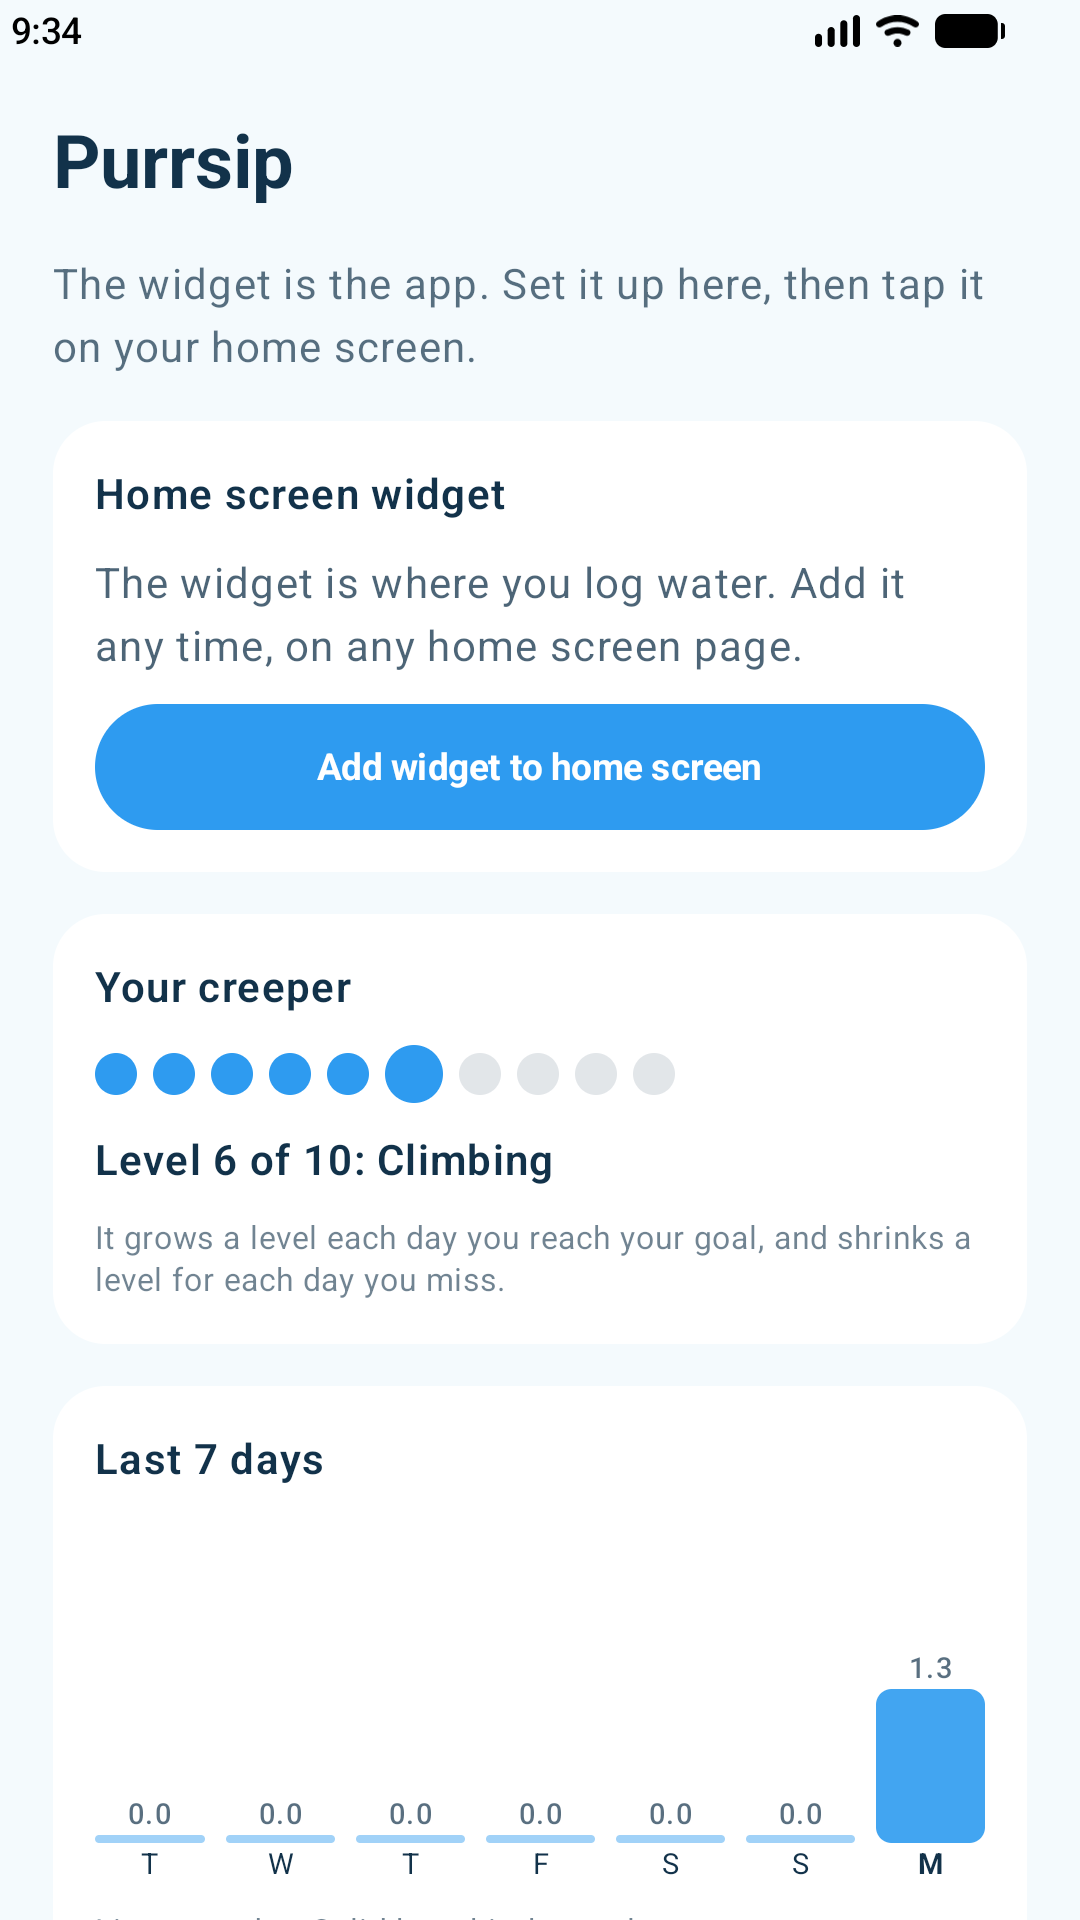
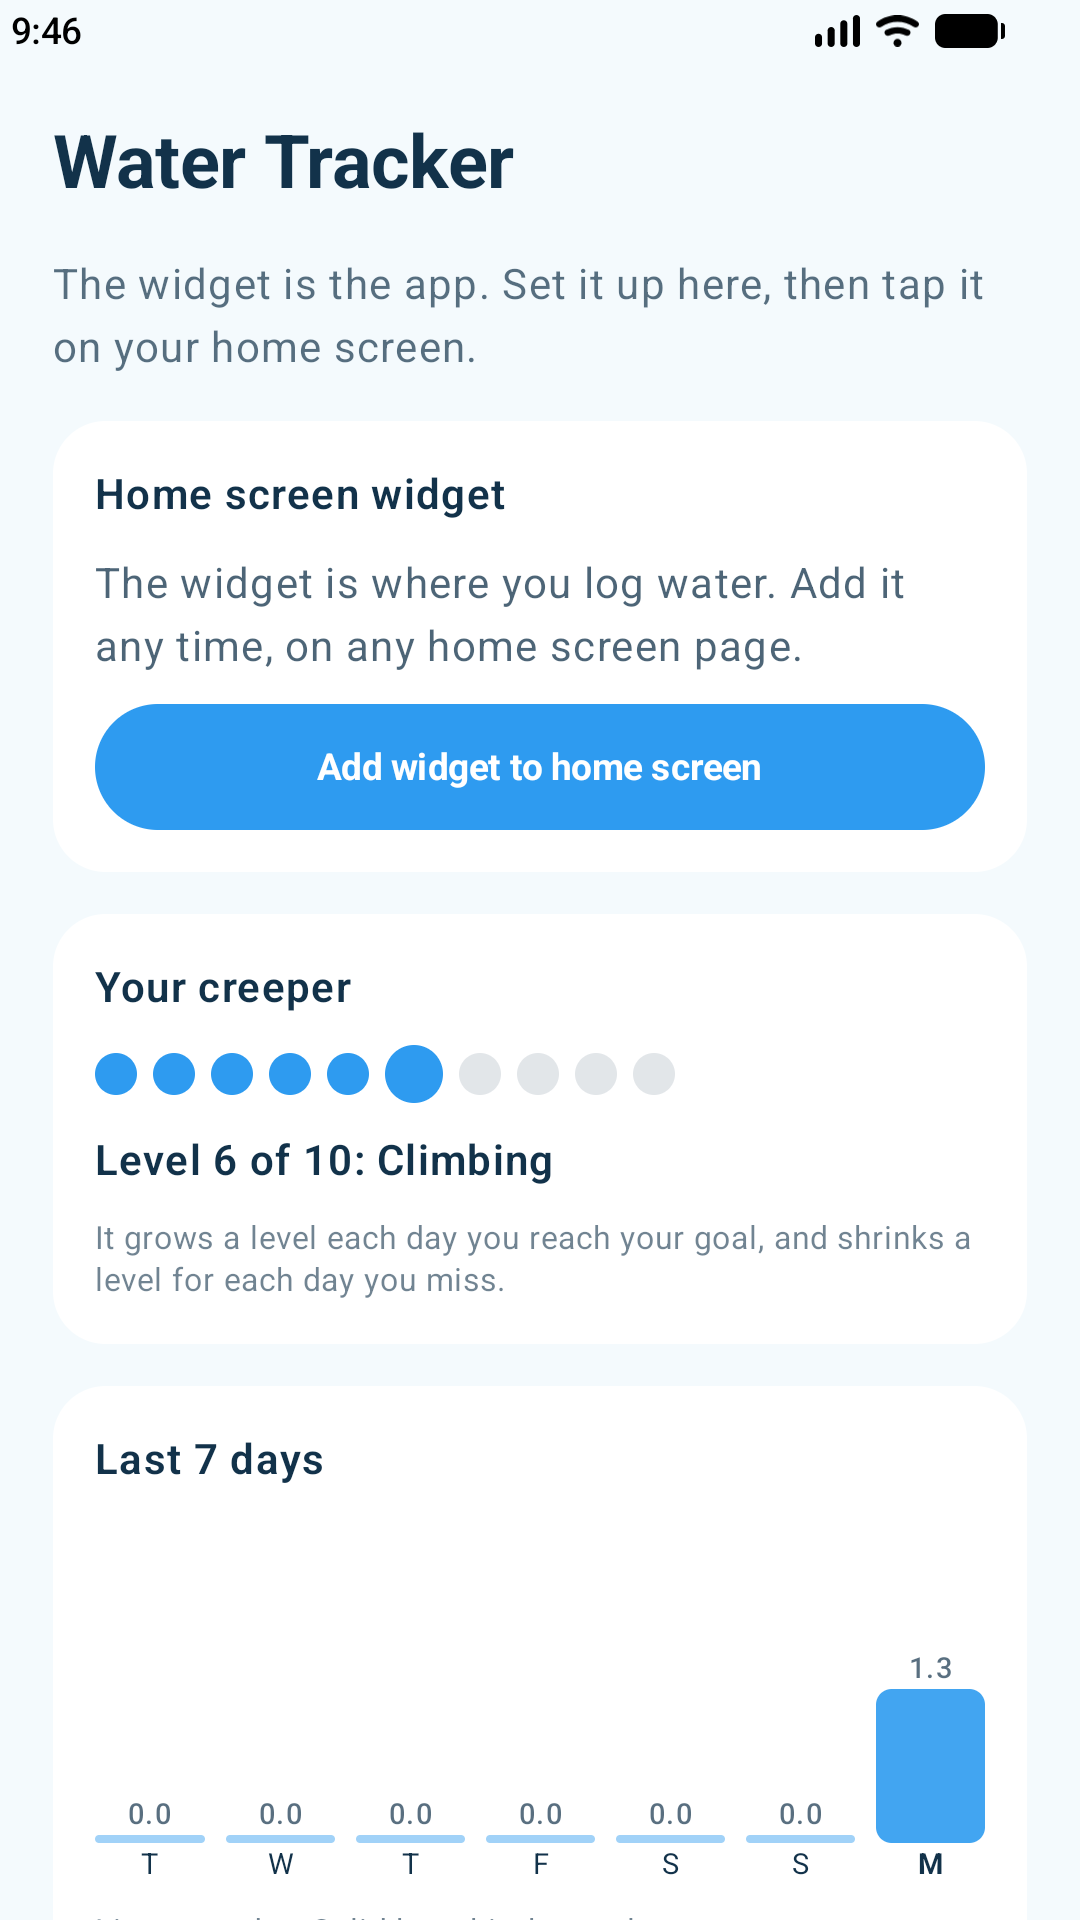
Rename to Water Tracker; Play title 'Widget: Water Tracker & Remind'; update listing, policy page and store assets

Changed region(s): [[0.0611, 0.0625, 0.4889, 0.125], [0.0306, 0.0, 0.0917, 0.0312]]

diff --git a/docs/privacy-policy.html b/docs/privacy-policy.html
@@ -1,6 +1,6 @@
 <!doctype html>
 <html lang="en"><head><meta charset="utf-8"><meta name="viewport" content="width=device-width,initial-scale=1">
-<title>Purrsip Privacy Policy</title>
+<title>Water Tracker Privacy Policy</title>
 <style>body{font-family:system-ui,-apple-system,Segoe UI,Roboto,sans-serif;max-width:720px;margin:40px auto;padding:0 20px;line-height:1.6;color:#12324A;background:#FFFBEF}
 h1{font-size:2rem}a{color:#1E88E5}li{margin:.4rem 0}</style></head>
-<body><h1>Purrsip Privacy Policy</h1><p>Last updated: 21 September 2026</p><p>Purrsip is a home-screen widget that helps you log the water you drink.</p><p><strong>Data we collect: none.</strong> The amount of water you log, your daily goal, your creeper level and your settings are stored only on your device. We do not collect, transmit, sell or share any personal data. The app has no accounts, no analytics, no ads and no third-party SDKs, and it does not request the internet permission, so it cannot send anything off your device.</p><p><strong>Android backup.</strong> If you have Android&#x27;s backup turned on, the app&#x27;s small settings file (goal, water log, creeper level) may be included in your own Google backup so it can be restored on a new phone. That backup belongs to your Google account and is not accessible to us.</p><p><strong>Permissions and why:</strong></p><ul><li><em>Foreground service:</em> used only so the widget can notice when you unlock your phone and remind you to drink. It shows a quiet, minimum-priority notification. Nothing about your unlocks is stored or sent anywhere.</li><li><em>Run at startup:</em> restores that listener after your phone restarts.</li></ul><p><strong>Deleting your data:</strong> uninstalling the app removes everything it stored on your device.</p><p><strong>Children:</strong> Purrsip is not directed at children under 13 and collects no data from anyone.</p><p><strong>Health:</strong> Purrsip is not a medical app and gives no medical advice. Talk to a healthcare professional about how much water is right for you.</p><p><strong>Contact:</strong> open an issue at <a href="https://github.com/developerjabberai/android-water-tracker/issues">https://github.com/developerjabberai/android-water-tracker/issues</a></p><p><strong>Changes:</strong> if this policy changes, the updated version will be posted at this same address.</p></body></html>
+<body><h1>Water Tracker Privacy Policy</h1><p>Last updated: 21 September 2026</p><p>Water Tracker is a home-screen widget that helps you log the water you drink.</p><p><strong>Data we collect: none.</strong> The amount of water you log, your daily goal, your creeper level and your settings are stored only on your device. We do not collect, transmit, sell or share any personal data. The app has no accounts, no analytics, no ads and no third-party SDKs, and it does not request the internet permission, so it cannot send anything off your device.</p><p><strong>Android backup.</strong> If you have Android&#x27;s backup turned on, the app&#x27;s small settings file (goal, water log, creeper level) may be included in your own Google backup so it can be restored on a new phone. That backup belongs to your Google account and is not accessible to us.</p><p><strong>Permissions and why:</strong></p><ul><li><em>Foreground service:</em> used only so the widget can notice when you unlock your phone and remind you to drink. It shows a quiet, minimum-priority notification. Nothing about your unlocks is stored or sent anywhere.</li><li><em>Run at startup:</em> restores that listener after your phone restarts.</li></ul><p><strong>Deleting your data:</strong> uninstalling the app removes everything it stored on your device.</p><p><strong>Children:</strong> Water Tracker is not directed at children under 13 and collects no data from anyone.</p><p><strong>Health:</strong> Water Tracker is not a medical app and gives no medical advice. Talk to a healthcare professional about how much water is right for you.</p><p><strong>Contact:</strong> open an issue at <a href="https://github.com/developerjabberai/android-water-tracker/issues">https://github.com/developerjabberai/android-water-tracker/issues</a></p><p><strong>Changes:</strong> if this policy changes, the updated version will be posted at this same address.</p></body></html>

diff --git a/v1/WaterTracker/app/src/main/java/com/developerjabberai/watertracker/ui/ConfigScreen.kt b/v1/WaterTracker/app/src/main/java/com/developerjabberai/watertracker/ui/ConfigScreen.kt
@@ -77,7 +77,7 @@ fun ConfigScreen() {
             .padding(20.dp),
         verticalArrangement = Arrangement.spacedBy(16.dp),
     ) {
-        Text("Purrsip", style = MaterialTheme.typography.headlineMedium, fontWeight = FontWeight.Bold, color = Ink)
+        Text("Water Tracker", style = MaterialTheme.typography.headlineMedium, fontWeight = FontWeight.Bold, color = Ink)
         Text("The widget is the app. Set it up here, then tap it on your home screen.", color = Ink.copy(alpha = 0.7f))
 
         Section("Home screen widget") {
@@ -89,7 +89,7 @@ fun ConfigScreen() {
                     colors = ButtonDefaults.buttonColors(containerColor = Blue),
                 ) { Text("Add widget to home screen", fontWeight = FontWeight.Bold) }
             } else {
-                Hint("Long-press an empty spot on your home screen, tap Widgets, then drag out Purrsip.")
+                Hint("Long-press an empty spot on your home screen, tap Widgets, then drag out Water Tracker.")
             }
         }
 

diff --git a/docs/index.html b/docs/index.html
@@ -1,4 +1,4 @@
-<!doctype html><html lang="en"><head><meta charset="utf-8"><meta name="viewport" content="width=device-width,initial-scale=1"><title>Purrsip</title>
+<!doctype html><html lang="en"><head><meta charset="utf-8"><meta name="viewport" content="width=device-width,initial-scale=1"><title>Water Tracker</title>
 <style>body{font-family:system-ui,sans-serif;max-width:720px;margin:60px auto;padding:0 20px;color:#12324A;background:#FFD966}a{color:#12324A}</style></head>
-<body><h1>Purrsip: Water Tracker Widget</h1><p>One tap logs your water from the home screen, and a little cat cheers you on.</p>
+<body><h1>Widget: Water Tracker & Remind</h1><p>One tap logs your water from the home screen, and a little cat cheers you on.</p>
 <p><a href="privacy-policy.html">Privacy policy</a></p></body></html>

diff --git a/v1/WaterTracker/app/src/main/java/com/developerjabberai/watertracker/ui/WelcomeScreen.kt b/v1/WaterTracker/app/src/main/java/com/developerjabberai/watertracker/ui/WelcomeScreen.kt
@@ -70,7 +70,7 @@ fun WelcomeScreen(onDone: () -> Unit) {
     ) {
         Image(preview, contentDescription = "Widget preview", modifier = Modifier.size(220.dp))
         Text(
-            "Purrsip",
+            "Water Tracker",
             style = MaterialTheme.typography.headlineMedium,
             fontWeight = FontWeight.Bold,
             color = Ink,
@@ -98,7 +98,7 @@ fun WelcomeScreen(onDone: () -> Unit) {
             )
         } else {
             Text(
-                "Long-press an empty spot on your home screen, tap Widgets, then drag out Purrsip.",
+                "Long-press an empty spot on your home screen, tap Widgets, then drag out Water Tracker.",
                 color = Ink,
                 textAlign = TextAlign.Center,
             )

diff --git a/v1/WaterTracker/app/src/main/java/com/developerjabberai/watertracker/service/UnlockService.kt b/v1/WaterTracker/app/src/main/java/com/developerjabberai/watertracker/service/UnlockService.kt
@@ -42,7 +42,7 @@ class UnlockService : Service() {
         val open = PendingIntent.getActivity(this, 0, Intent(this, MainActivity::class.java), PendingIntent.FLAG_IMMUTABLE)
         val notification = Notification.Builder(this, CHANNEL)
             .setSmallIcon(R.drawable.ic_stat_water)
-            .setContentTitle("Purrsip")
+            .setContentTitle("Water Tracker")
             .setContentText("Watching your pace")
             .setContentIntent(open)
             .setOngoing(true)

diff --git a/v1/store/play-console-answers.md b/v1/store/play-console-answers.md
@@ -1,6 +1,6 @@
 # Google Play Console: answers to copy in
 
-App ID `com.developerjabberai.watertracker` · Title "Purrsip: Water Tracker Widget" · version 1.0.0 (code 1) · signed AAB at
+App ID `com.developerjabberai.watertracker` · Title "Widget: Water Tracker & Remind" (app name on the phone: "Water Tracker") · version 1.0.0 (code 1) · signed AAB at
 `v1/WaterTracker/app/build/outputs/bundle/release/app-release.aab`
 
 ## 1. Create the app
@@ -26,7 +26,7 @@ App ID `com.developerjabberai.watertracker` · Title "Purrsip: Water Tracker Wid
 | **Data safety** | *Does the app collect or share any of the required user data types?* **No.** The app requests no internet permission and stores everything on-device. Encrypted in transit: not applicable. Data deletion: not applicable (nothing collected). Note Android Auto Backup of a small settings file goes to the user's own Google account, not to the developer, so it is not "collection" |
 | **Government app** | No |
 | **Financial features** | None |
-| **Health apps declaration** | Purrsip logs water intake only. Pick the closest category (Nutrition & weight management or "other health and fitness"), state that it makes **no medical claims**, has no health-data integration (no Health Connect) and is not a medical device |
+| **Health apps declaration** | Water Tracker logs water intake only. Pick the closest category (Nutrition & weight management or "other health and fitness"), state that it makes **no medical claims**, has no health-data integration (no Health Connect) and is not a medical device |
 | **Advertising ID** | The app does not use it (answer "No") |
 
 ## 4. Foreground service declaration (App content > Foreground service permissions)
@@ -51,6 +51,6 @@ No location, contacts, storage, camera, microphone or internet permissions.
 
 ## 7. Before you press submit
 - [ ] Replace `<your-support-email>` in `v1/store/listing.md` (the email field in Play Console is separate and required)
-- [ ] Trademark search for "Purrsip" (USPTO, EUIPO, UK IPO)
+- [ ] Name: "Water Tracker" is a generic phrase, so it can't be trademarked and there is nothing to register or search. Anyone can use it, and it is very crowded in the store. Your icon, screenshots and characters are what set the app apart
 - [ ] Confirm your Recraft plan allows commercial use of the four character illustrations
 - [ ] Turn on GitHub Pages so the privacy policy URL above works (Settings > Pages > deploy from `main` / `docs`)

diff --git a/v1/store/listing.md b/v1/store/listing.md
@@ -1,10 +1,11 @@
 # Play Store listing
 
-**App name (30):** Purrsip: Water Tracker Widget
+**App name / Play title (30):** Widget: Water Tracker & Remind
+**In-app and home-screen name:** Water Tracker
 **Short description (80):** Water tracker widget: log water in one tap. A little cat cheers you on.
 
 **Full description (4000):**
-Purrsip is a water tracker widget for your home screen, and the widget is the whole app.
+Water Tracker is a water tracker widget for your home screen, and the widget is the whole app.
 
 Tap it to log water. The bottle fills up with a splash and does a happy little bounce. Every day a different cat-bottle character keeps you company, and a creeper vine grows up the bottle every day you reach your goal.
 
@@ -23,15 +24,15 @@ Add the widget to your home screen in one tap from the app, pick your daily goal
 A NOTE ON PERMISSIONS
 To notice when you unlock your phone, the widget uses a small background service. It shows one quiet, low-priority notification ("Watching your pace") that you can hide. Nothing about your unlocks is stored or sent anywhere.
 
-Purrsip is not a medical app and gives no medical advice.
+Water Tracker is not a medical app and gives no medical advice.
 
 **Category:** Health & Fitness
 **Tags:** water tracker, hydration, widget, drink water reminder, habit tracker
 
 **What's new (1.0.0):** First release. One-tap water logging from your home screen, four daily characters, a growing creeper streak, and an unmissable unlock reminder.
 
-**Localised titles** (Play Console > Store listing > Translations; keep "Purrsip" identical):
-- de: Purrsip: Wasser Tracker Widget
-- fr: Purrsip: Rappel Eau Widget
-- es: Purrsip: Recordatorio de Agua
-- it: Purrsip: Promemoria Acqua
+**Localised titles** (Play Console > Store listing > Translations; all 30 characters or fewer):
+- de: Widget: Wasser Erinnerung
+- fr: Widget: Rappel Eau & Suivi
+- es: Widget: Agua y Recordatorio
+- it: Widget: Acqua e Promemoria

diff --git a/v1/store/privacy-policy.md b/v1/store/privacy-policy.md
@@ -1,8 +1,8 @@
-# Purrsip Privacy Policy
+# Water Tracker Privacy Policy
 
 Last updated: 21 September 2026
 
-Purrsip is a home-screen widget that helps you log the water you drink.
+Water Tracker is a home-screen widget that helps you log the water you drink.
 
 **Data we collect: none.** The amount of water you log, your daily goal, your creeper level and your settings are stored only on your device. We do not collect, transmit, sell or share any personal data. The app has no accounts, no analytics, no ads and no third-party SDKs, and it does not request the internet permission, so it cannot send anything off your device.
 
@@ -14,9 +14,9 @@ Purrsip is a home-screen widget that helps you log the water you drink.
 
 **Deleting your data:** uninstalling the app removes everything it stored on your device.
 
-**Children:** Purrsip is not directed at children under 13 and collects no data from anyone.
+**Children:** Water Tracker is not directed at children under 13 and collects no data from anyone.
 
-**Health:** Purrsip is not a medical app and gives no medical advice. Talk to a healthcare professional about how much water is right for you.
+**Health:** Water Tracker is not a medical app and gives no medical advice. Talk to a healthcare professional about how much water is right for you.
 
 **Contact:** open an issue at https://github.com/developerjabberai/android-water-tracker/issues
 

diff --git a/v1/RELEASE.md b/v1/RELEASE.md
@@ -1,4 +1,4 @@
-# Releasing Purrsip to Google Play
+# Releasing Water Tracker to Google Play
 
 App ID (permanent once uploaded): `com.developerjabberai.watertracker`
 
@@ -30,7 +30,7 @@ export JAVA_HOME="/Applications/Android Studio.app/Contents/jbr/Contents/Home"
 Upload `app/build/outputs/bundle/release/app-release.aab`. Bump `versionCode` in `app/build.gradle.kts` for every new upload.
 
 ## Play Console checklist
-1. Create app: title "Purrsip: Water Tracker Widget" (home-screen label "Purrsip"), default language, App (not game), Free.
+1. Create app: title "Widget: Water Tracker & Remind" (home-screen label "Water Tracker"), default language, App (not game), Free.
 2. **Store listing:** text in `v1/store/listing.md`; assets in `v1/store/` (icon 512x512, feature graphic 1024x500, phone screenshots).
 3. **Privacy policy URL:** host `v1/store/privacy-policy.md` (for example GitHub Pages) and paste the link.
 4. **App content:** data safety (no data collected or shared; everything stays on the device), content rating questionnaire, target audience (13+ or all ages, not aimed at children), ads (none), health apps declaration (see note below).

diff --git a/v1/SPEC.md b/v1/SPEC.md
@@ -1,4 +1,4 @@
-# Purrsip (Play title: "Purrsip: Water Tracker Widget"): v1 Spec
+# Water Tracker (Play title: "Widget: Water Tracker & Remind"): v1 Spec
 
 ## Platform
 - Android only, minimum Android 12 (API 31)
